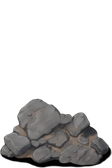
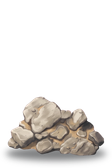
feat: the cave's rockfall, repainted lit
Claude-Session: https://claude.ai/code/session_01NQk9Q1WZoZfDzoRioyXby1

Changed region(s): [[0.0, 0.5655, 1.0, 1.0]]

diff --git a/docs/instructions/repaint-queue.md b/docs/instructions/repaint-queue.md
@@ -445,7 +445,9 @@ hieroglyphs, no watermark, no frame, no border.
 It is about one and a half times as wide as it is tall: a knee-high heap.
 ```
 
-**Import:** `yarn import-tile art/masters/props/cave/rubblePile.webp --tier=cave --name=rubblePile --slot=prop --filter=smooth`
+**Prepare:** `art/deshadow.sh <render> clean.png art/masters/props/cave/rubblePile-shadow.png`, keep `clean.png` as the master (the shadow comes back magenta).
+
+**Import:** `yarn import-tile art/masters/props/cave/rubblePile.webp --tier=cave --name=rubblePile --slot=prop --filter=smooth --seat=art/masters/props/cave/rubblePile-shadow.png --seat-opacity=0.55`
 
 ### `cave/pit` — a sinkhole, dark shaft
 
